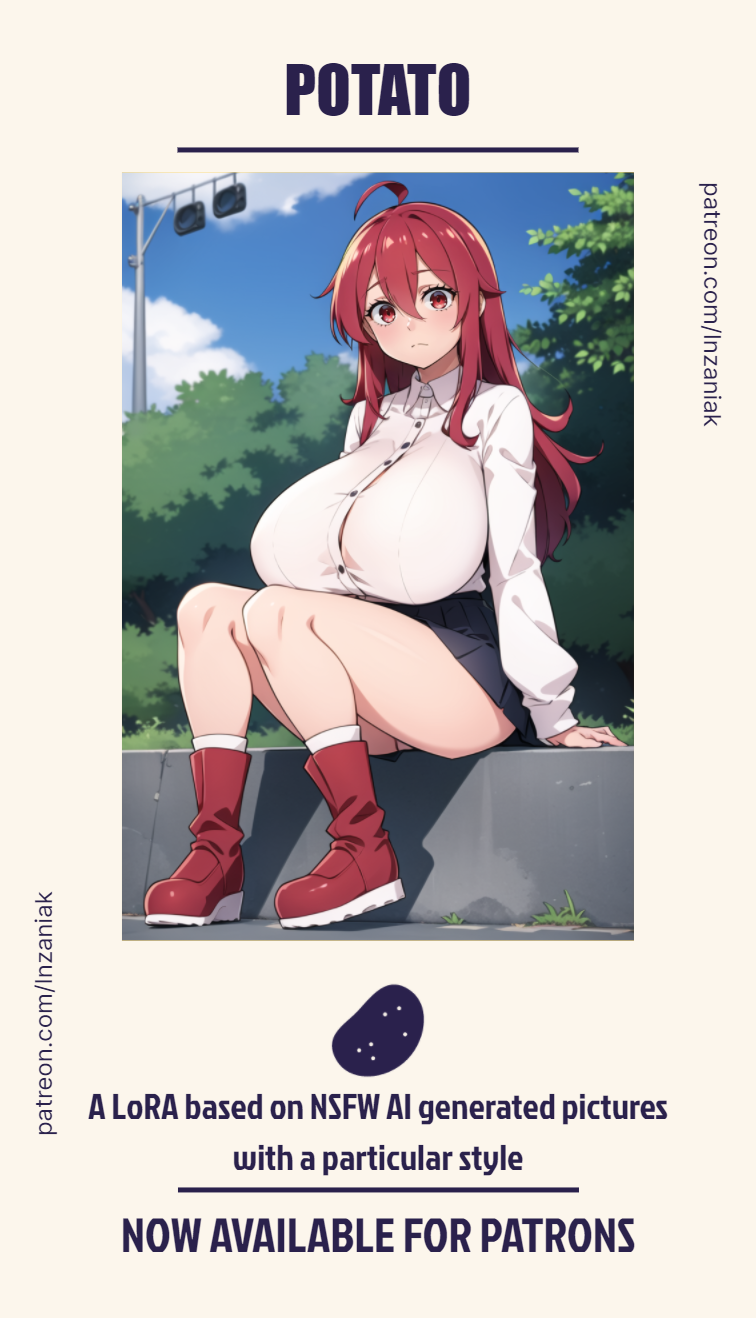
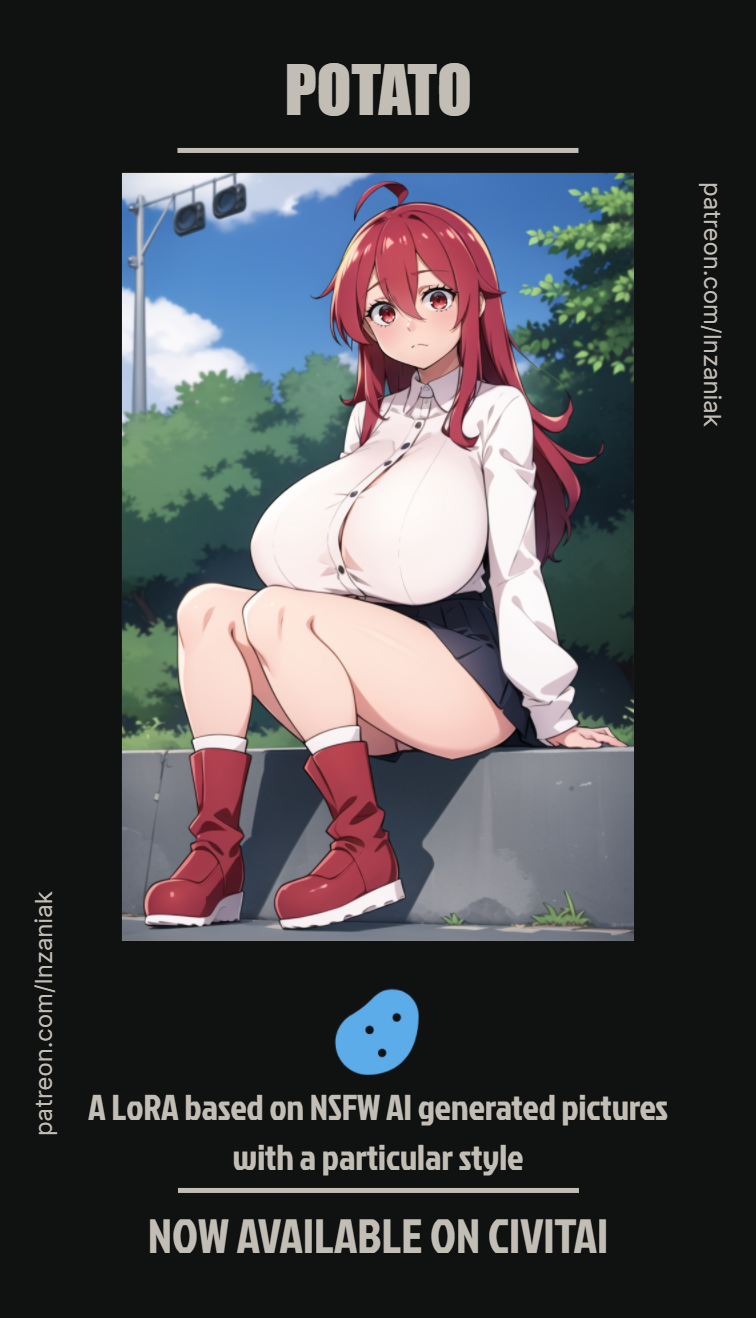
updated catalog

diff --git a/catalog.html b/catalog.html
@@ -248,6 +248,16 @@
     </a>
 </div>
 <div class="col-md-3 col-sm-6 col-padding text-center animate-box">
+    <a href="http://www.patreon.com/posts/asparagus-lora-93992500" class="work image-popup"
+        style="background-image: url(catalog/asparagus.webp); height: 439px; width: 252px;">
+        <div class="desc">
+            <!-- Headings black font with white border -->
+            <h1 style="color: black; -webkit-text-stroke: 1px white;">Asparagus</h3>
+            <h2 style="color: black; -webkit-text-stroke: 1px white;">LORA</h4>
+        </div>
+    </a>
+</div>
+<div class="col-md-3 col-sm-6 col-padding text-center animate-box">
     <a href="http://www.patreon.com/posts/avocado-lora-86480372" class="work image-popup"
         style="background-image: url(catalog/avocado.webp); height: 439px; width: 252px;">
         <div class="desc">
@@ -318,6 +328,16 @@
     </a>
 </div>
 <div class="col-md-3 col-sm-6 col-padding text-center animate-box">
+    <a href="http://www.patreon.com/posts/broccoli-lora-93732200" class="work image-popup"
+        style="background-image: url(catalog/broccoli.webp); height: 439px; width: 252px;">
+        <div class="desc">
+            <!-- Headings black font with white border -->
+            <h1 style="color: black; -webkit-text-stroke: 1px white;">Broccoli</h3>
+            <h2 style="color: black; -webkit-text-stroke: 1px white;">LORA</h4>
+        </div>
+    </a>
+</div>
+<div class="col-md-3 col-sm-6 col-padding text-center animate-box">
     <a href="http://www.patreon.com/posts/bullet-lora-92635064" class="work image-popup"
         style="background-image: url(catalog/bullet.webp); height: 439px; width: 252px;">
         <div class="desc">
@@ -363,6 +383,16 @@
         <div class="desc">
             <!-- Headings black font with white border -->
             <h1 style="color: black; -webkit-text-stroke: 1px white;">Carrot</h3>
+            <h2 style="color: black; -webkit-text-stroke: 1px white;">LORA</h4>
+        </div>
+    </a>
+</div>
+<div class="col-md-3 col-sm-6 col-padding text-center animate-box">
+    <a href="http://www.patreon.com/posts/celery-lora-94243687" class="work image-popup"
+        style="background-image: url(catalog/celery.webp); height: 439px; width: 252px;">
+        <div class="desc">
+            <!-- Headings black font with white border -->
+            <h1 style="color: black; -webkit-text-stroke: 1px white;">Celery</h3>
             <h2 style="color: black; -webkit-text-stroke: 1px white;">LORA</h4>
         </div>
     </a>
@@ -618,6 +648,16 @@
     </a>
 </div>
 <div class="col-md-3 col-sm-6 col-padding text-center animate-box">
+    <a href="http://www.patreon.com/posts/illusion-lora-93804323" class="work image-popup"
+        style="background-image: url(catalog/illusion.webp); height: 439px; width: 252px;">
+        <div class="desc">
+            <!-- Headings black font with white border -->
+            <h1 style="color: black; -webkit-text-stroke: 1px white;">Illusion</h3>
+            <h2 style="color: black; -webkit-text-stroke: 1px white;">LORA</h4>
+        </div>
+    </a>
+</div>
+<div class="col-md-3 col-sm-6 col-padding text-center animate-box">
     <a href="http://www.patreon.com/posts/intense-lora-83521574" class="work image-popup"
         style="background-image: url(catalog/intense.webp); height: 439px; width: 252px;">
         <div class="desc">
@@ -848,7 +888,7 @@
     </a>
 </div>
 <div class="col-md-3 col-sm-6 col-padding text-center animate-box">
-    <a href="http://www.patreon.com/posts/potato-lora-93101833" class="work image-popup"
+    <a href="https://civitai.com/models/225987" class="work image-popup"
         style="background-image: url(catalog/potato.webp); height: 439px; width: 252px;">
         <div class="desc">
             <!-- Headings black font with white border -->
@@ -1033,6 +1073,16 @@
         <div class="desc">
             <!-- Headings black font with white border -->
             <h1 style="color: black; -webkit-text-stroke: 1px white;">Skin</h3>
+            <h2 style="color: black; -webkit-text-stroke: 1px white;">LORA</h4>
+        </div>
+    </a>
+</div>
+<div class="col-md-3 col-sm-6 col-padding text-center animate-box">
+    <a href="http://www.patreon.com/posts/spinach-lora-94463702" class="work image-popup"
+        style="background-image: url(catalog/spinach.webp); height: 439px; width: 252px;">
+        <div class="desc">
+            <!-- Headings black font with white border -->
+            <h1 style="color: black; -webkit-text-stroke: 1px white;">Spinach</h3>
             <h2 style="color: black; -webkit-text-stroke: 1px white;">LORA</h4>
         </div>
     </a>
